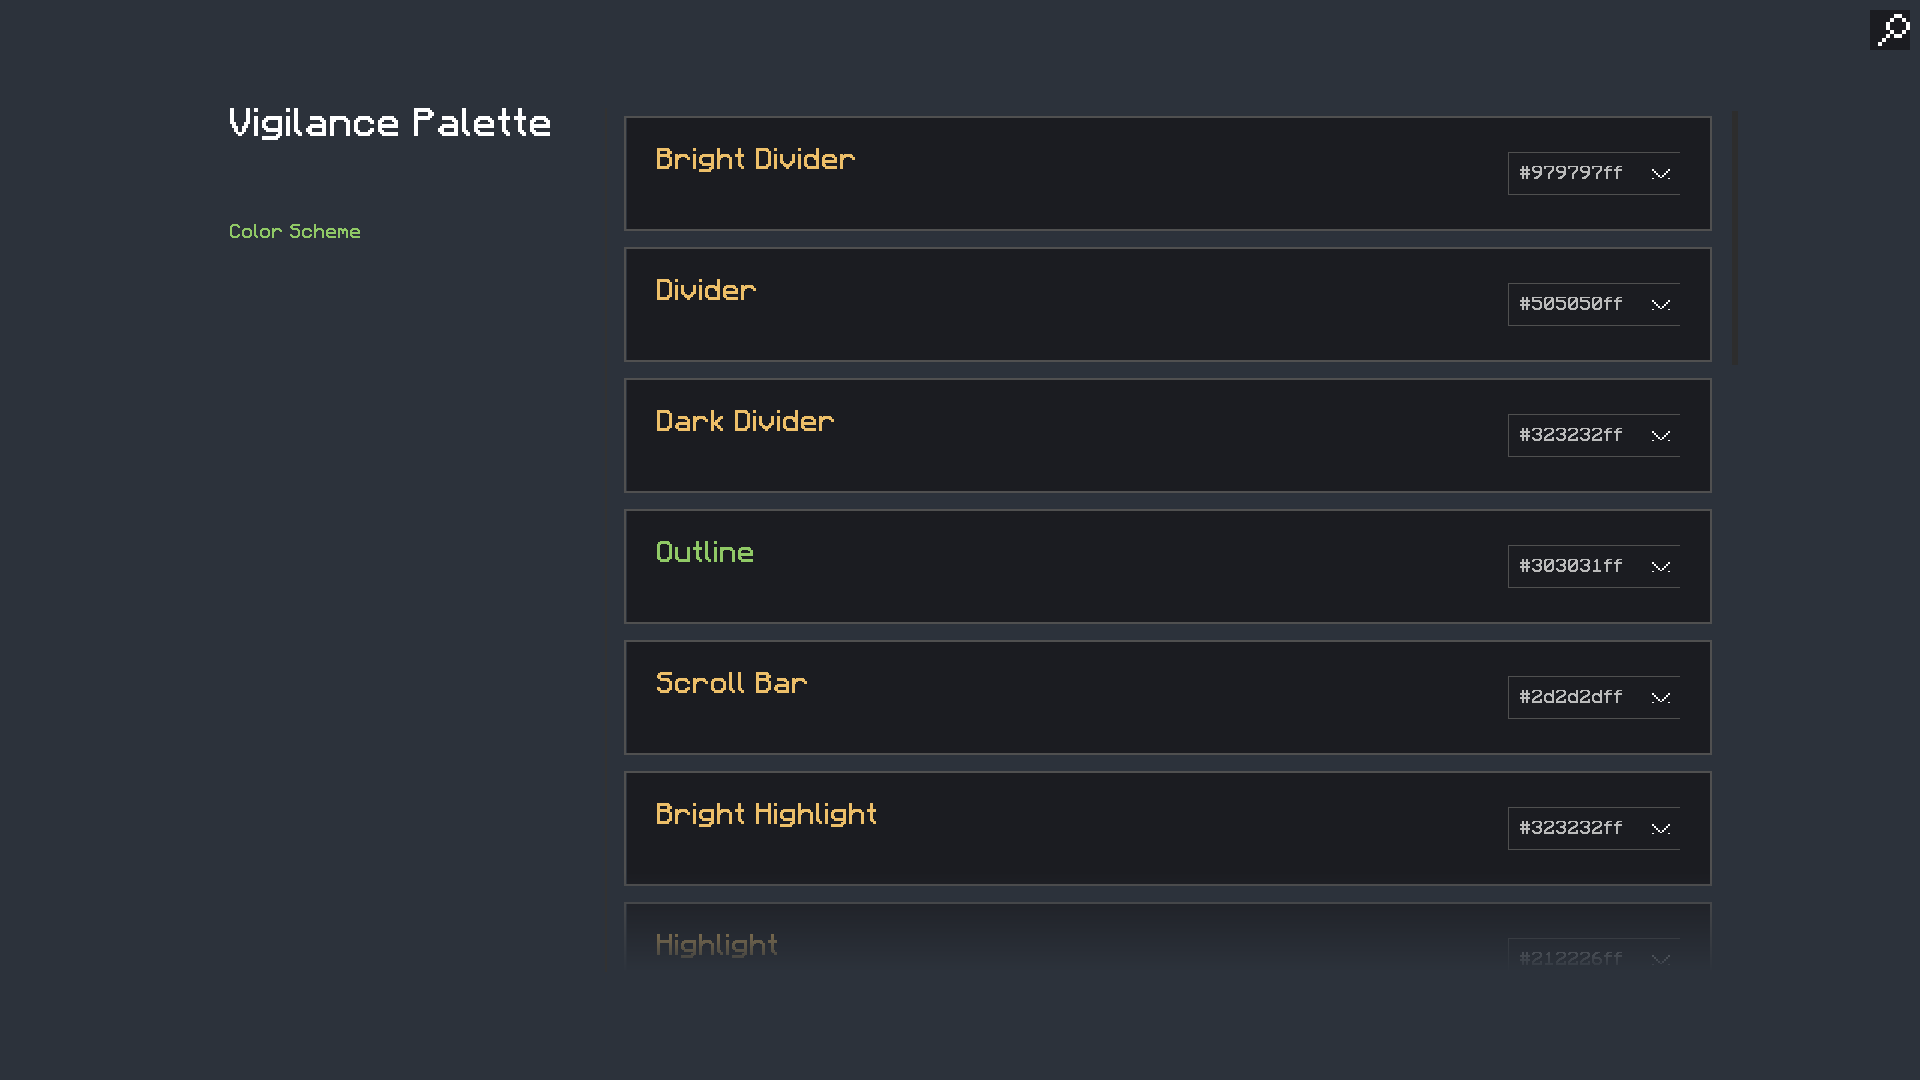
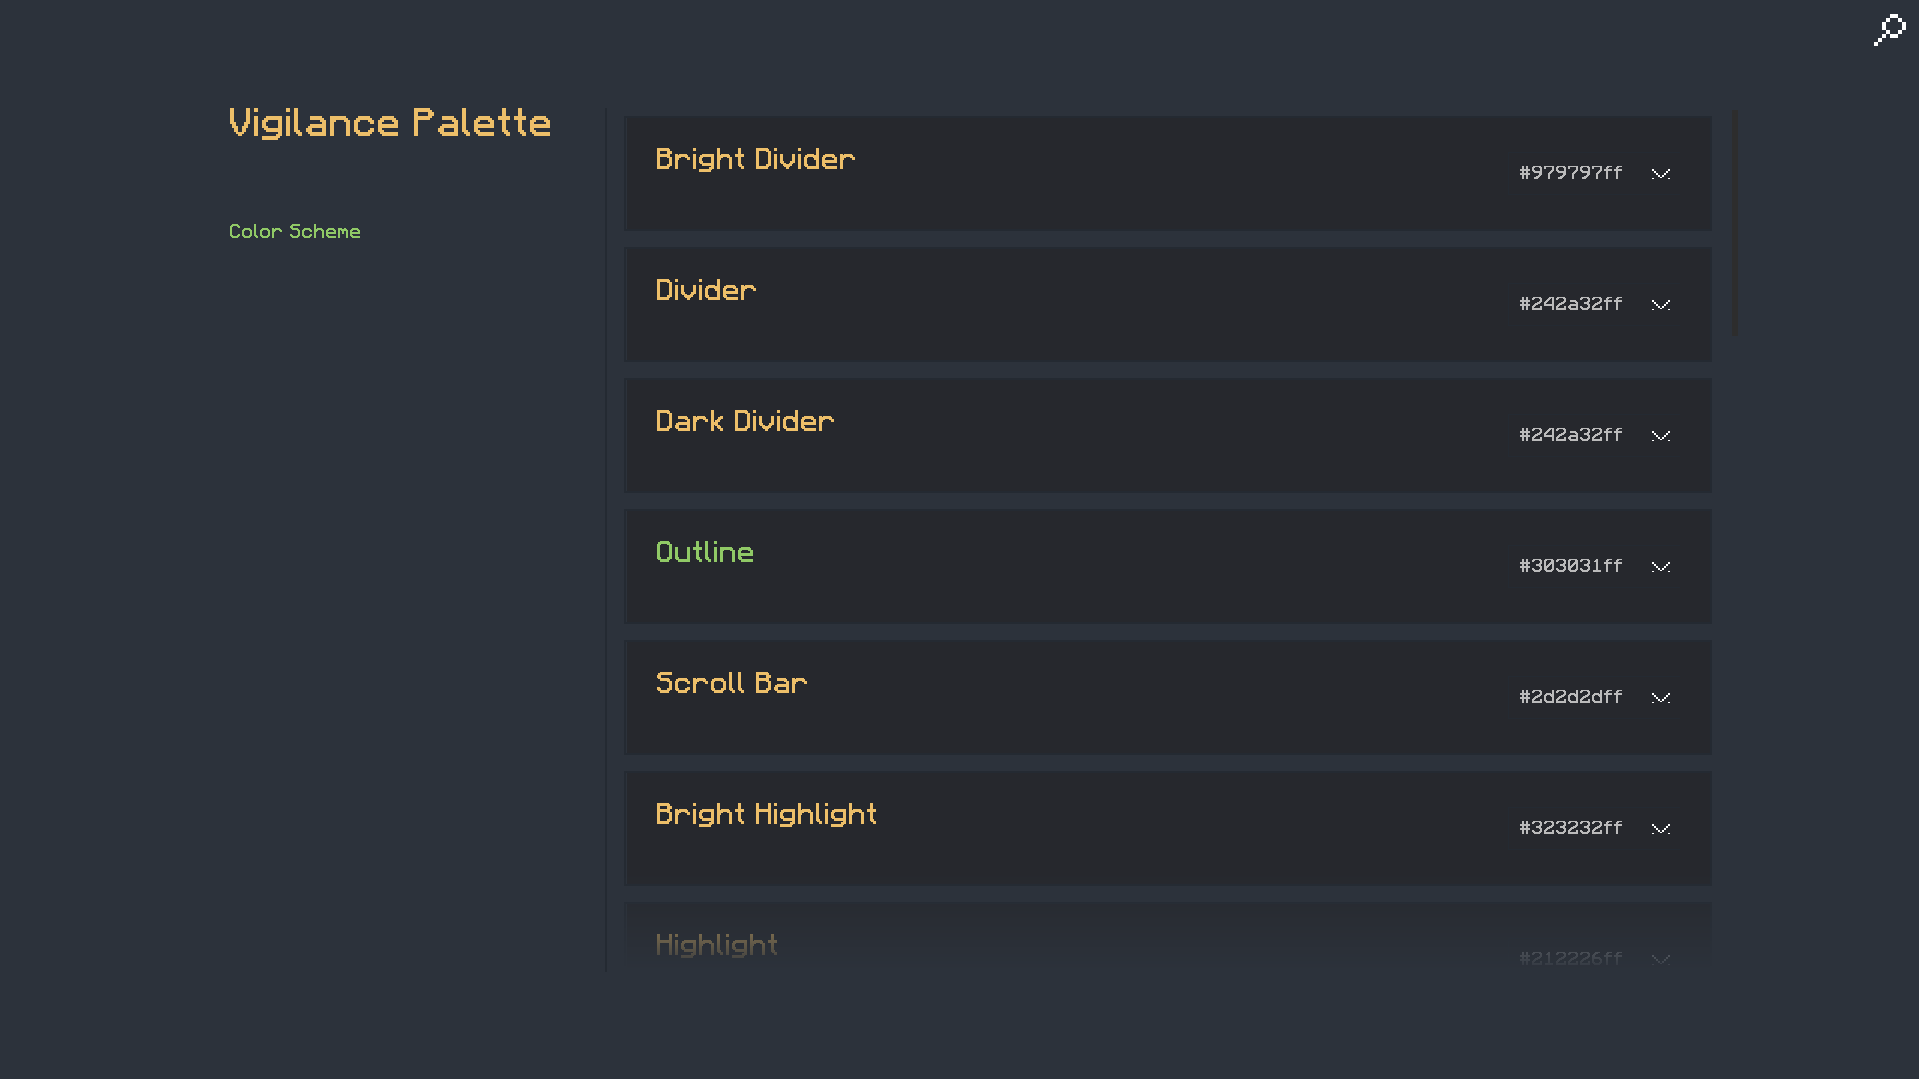
Complete Deus theme

diff --git a/deus/README.md b/deus/README.md
@@ -1,6 +1,6 @@
 <div align = "center">
 
-# [WIP] Deus Theme
+# Deus Theme
 
 </div>
 
